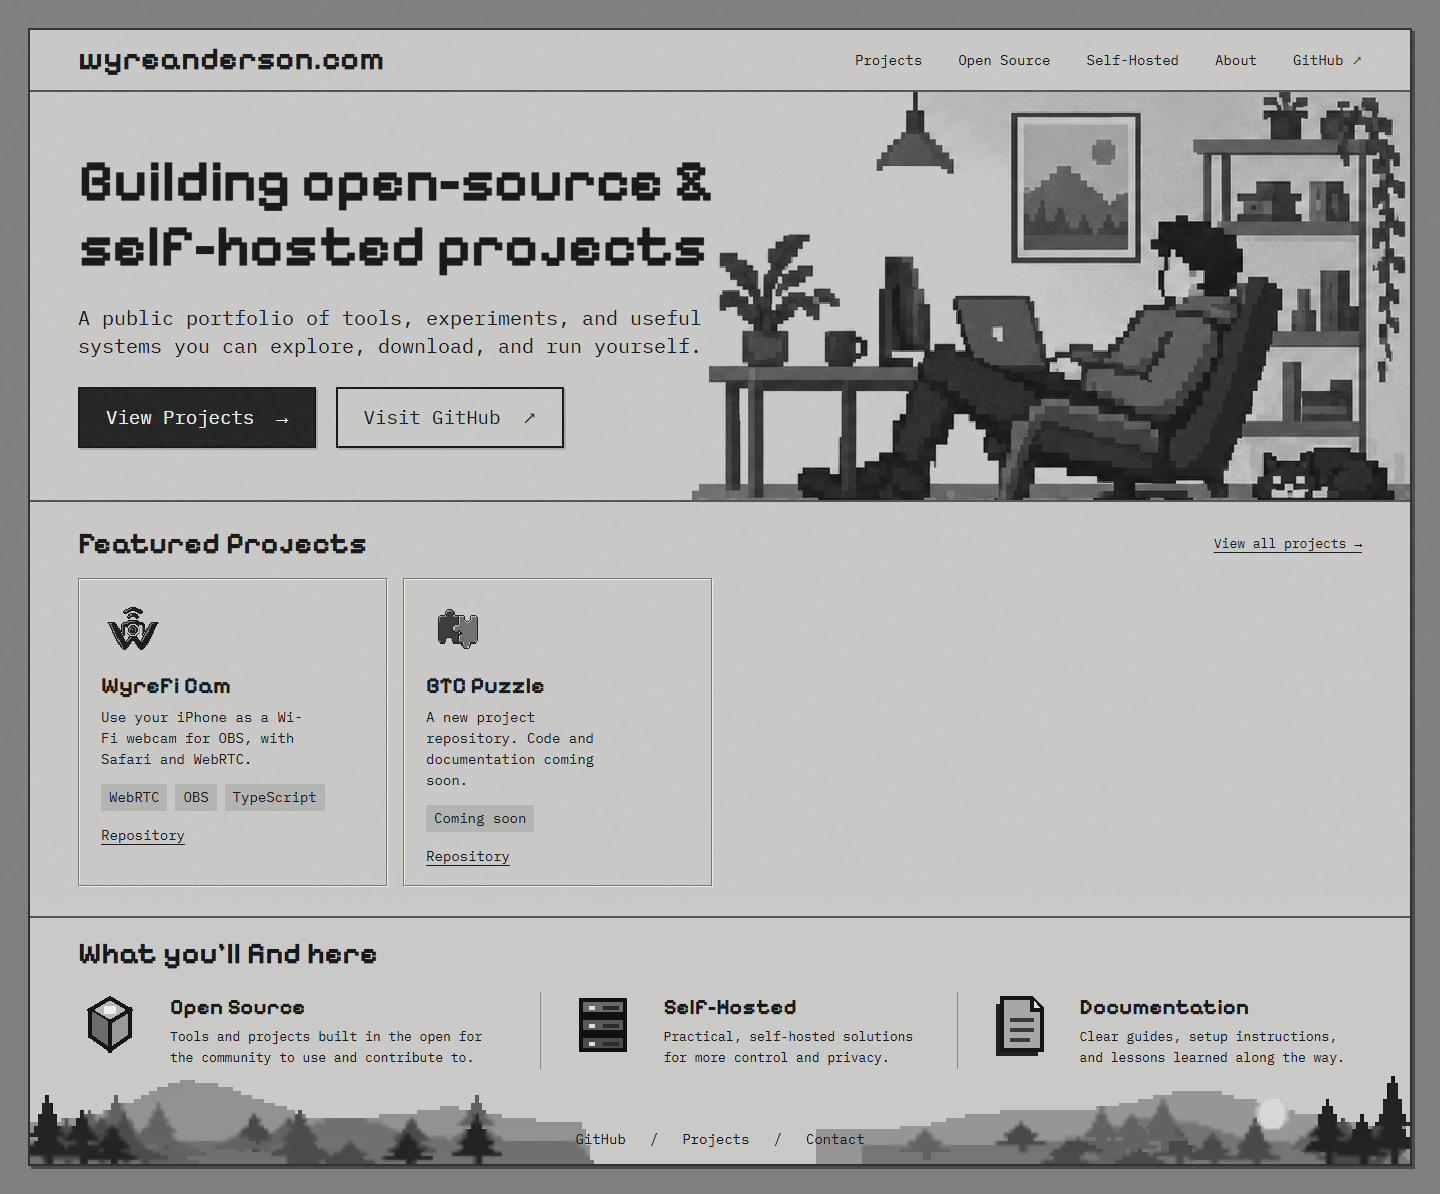
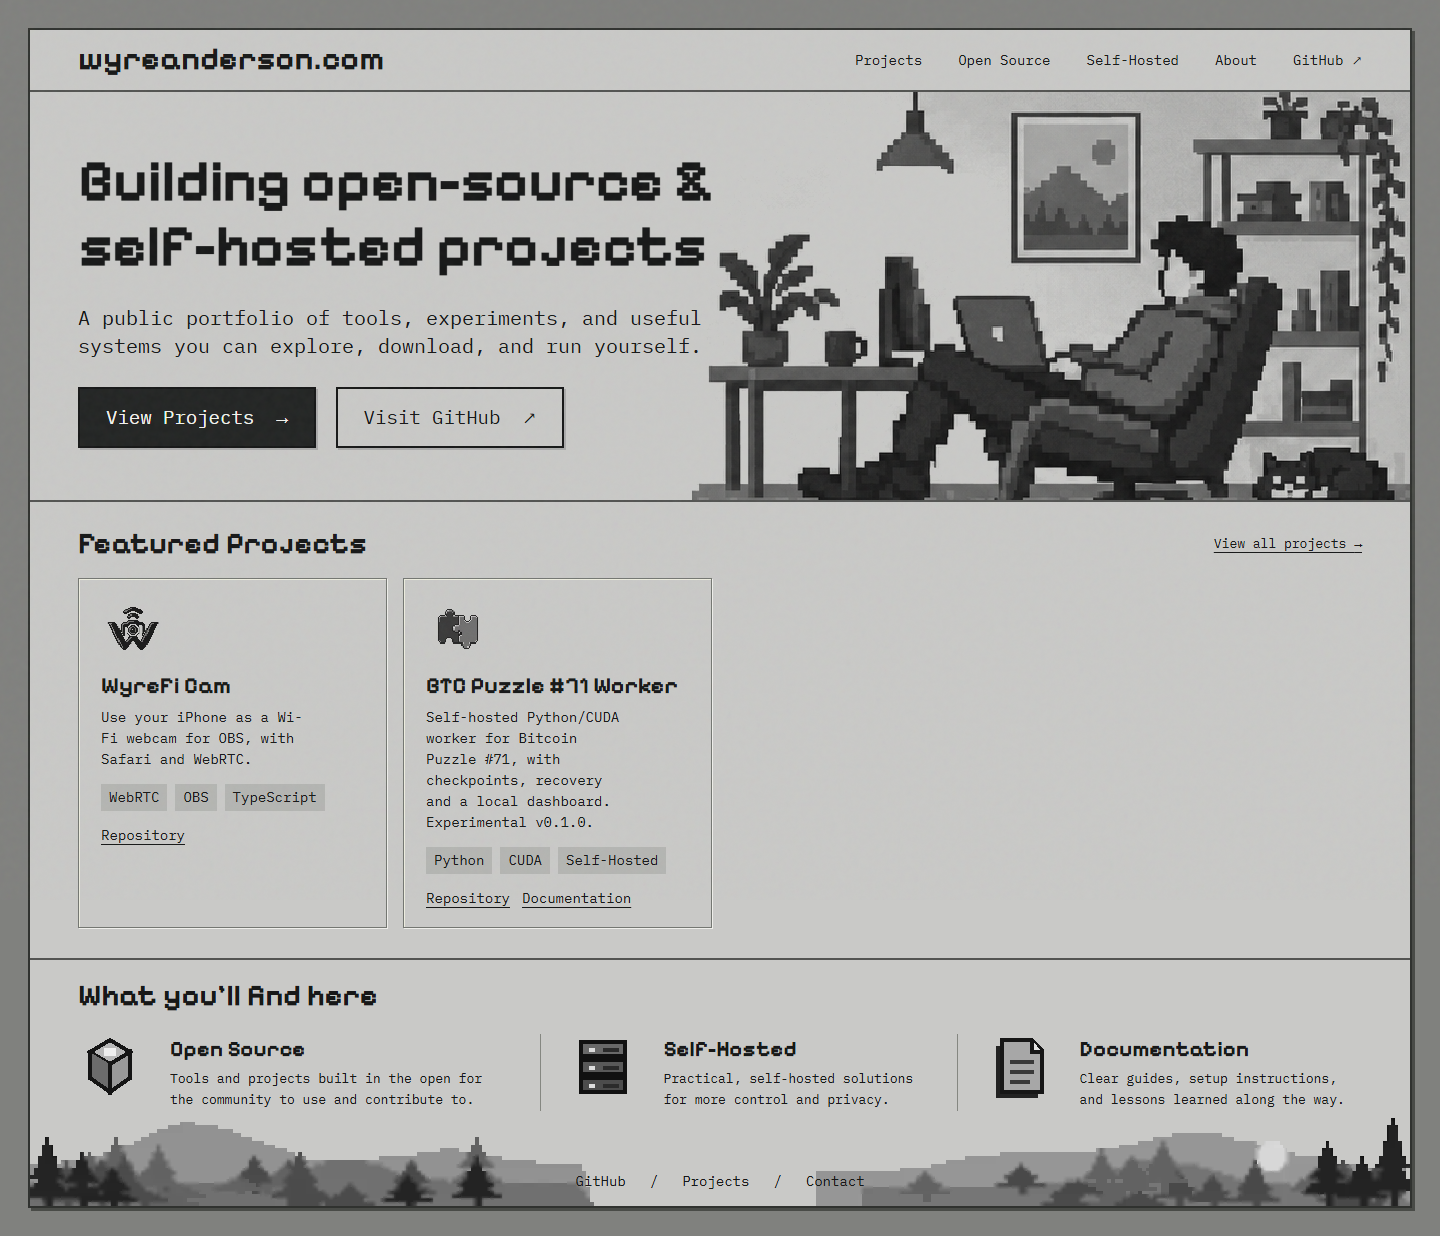
feat: update BTC Puzzle card from published project documentation

diff --git a/tests/site.spec.ts b/tests/site.spec.ts
@@ -53,16 +53,30 @@ for (const [name, width, height] of [
     await expect(page.locator(".project-card")).toHaveCount(2);
     await expect(page.locator(".project-card h3")).toHaveText([
       "WyreFi Cam",
-      "BTC Puzzle",
+      "BTC Puzzle #71 Worker",
     ]);
     await expect(
       page.locator(".project-card").first().locator("a"),
     ).toHaveAttribute("href", "https://github.com/Wyreanderson/WyreFi-Cam");
     const btcCard = page.locator(".project-card").nth(1);
-    await expect(btcCard.locator("p")).toContainText("coming soon");
-    await expect(btcCard.locator("a")).toHaveAttribute(
+    await expect(btcCard.locator("p")).toContainText("Experimental v0.1.0");
+    await expect(btcCard.locator("p")).not.toContainText("coming soon");
+    await expect(btcCard.locator(".tags li")).toHaveText([
+      "Python",
+      "CUDA",
+      "Self-Hosted",
+    ]);
+    await expect(
+      btcCard.getByRole("link", { name: /^Repository/ }),
+    ).toHaveAttribute(
       "href",
       "https://github.com/Wyreanderson/-projeto-BTC-Puzzle",
+    );
+    await expect(
+      btcCard.getByRole("link", { name: /^Documentation/ }),
+    ).toHaveAttribute(
+      "href",
+      "https://github.com/Wyreanderson/-projeto-BTC-Puzzle/blob/main/docs/QUICKSTART.md",
     );
     await expect(btcCard.locator("img")).toHaveAttribute(
       "src",

diff --git a/src/content/projects.ts b/src/content/projects.ts
@@ -34,16 +34,16 @@ export const projects: Project[] = [
   {
     id: "btc-puzzle",
     slug: "btc-puzzle",
-    title: "BTC Puzzle",
+    title: "BTC Puzzle #71 Worker",
     shortDescription:
-      "A new project repository. Code and documentation coming soon.",
-    tags: ["Coming soon"],
-    // The public repository is currently empty and has no license or stack.
-    // Do not infer open-source licensing, hosting, or features from its name.
-    categories: [],
+      "Self-hosted Python/CUDA worker for Bitcoin Puzzle #71, with checkpoints, recovery and a local dashboard. Experimental v0.1.0.",
+    tags: ["Python", "CUDA", "Self-Hosted"],
+    categories: ["open-source", "self-hosted"],
     status: "published",
     featured: true,
     repoUrl: "https://github.com/Wyreanderson/-projeto-BTC-Puzzle",
+    docsUrl:
+      "https://github.com/Wyreanderson/-projeto-BTC-Puzzle/blob/main/docs/QUICKSTART.md",
     coverImage: "/assets/projects/btc-puzzle-pixel.png",
   },
 ];

diff --git a/docs/QA.md b/docs/QA.md
@@ -80,3 +80,11 @@ Arte original gerada com ferramenta integrada image_gen conforme PROJECT_ART.md:
 Executados pnpm lint, pnpm typecheck, pnpm test e pnpm build: aprovados, 9 testes, sem violações axe, erros de consola ou overflow nas quatro larguras. Testes atualizados verificam os dois cartões, os destinos reais e o carregamento da imagem BTC. Capturas desktop/tablet/mobile/360 atualizadas; desktop revisto visualmente. Verificador remoto ajustado para aceitar vários cartões, sem o executar contra produção nesta alteração.
 
 Alteração guardada localmente, sem push/deploy. A versão pública Vercel não recebe o novo cartão até publicação autorizada.
+
+## BTC Puzzle — README atualizado em 22/10/2026
+
+README público lido integralmente: BTC Puzzle #71 Worker, experimental v0.1.0, orquestração Python/cuBitCrack/CUDA para o puzzle público autorizado #71. Documenta self-hosting, checkpoints, recuperação e dashboard local; MIT para o código próprio. Atualizados título, descrição, tags Python/CUDA/Self-Hosted e categorias open-source/self-hosted. Removida indicação Coming soon. Link Documentation confirmado pela API GitHub para docs/QUICKSTART.md. Arte existente mantida. Não foram executados worker, scans, pool, serviços ou código do outro repositório.
+
+pnpm lint, pnpm typecheck, pnpm test e pnpm build passaram; 9 testes, axe sem violações e sem overflow nas quatro larguras. Capturas atualizadas e desktop inspecionado visualmente. Testes conferem nome completo, estado experimental, tecnologias, imagem e links Repository/Documentation. Os registos de 21/10 sobre repositório vazio são históricos e foram superados por esta atualização.
+
+Commit local apenas, sem push/deploy. O site público mantém a versão anterior até publicação autorizada.

diff --git a/AGENTS.md b/AGENTS.md
@@ -27,4 +27,4 @@ This block is written and re-added by `next dev` — verify at `node_modules/nex
 
 Para cada novo projeto no portfólio, seguir docs/PROJECT_ART.md: adaptar a logo existente com identidade preservada, ou gerar arte original quando não houver imagem fornecida. Pixel art monocromática, PNG transparente quadrado, margem uniforme e exibição a 64×64 px. Guardar em public/assets/projects e configurar coverImage. Rever o cartão real antes do commit. Não modificar outros repositórios nem fazer push remoto por este procedimento.
 
-- BTC Puzzle autorizado pelo proprietário em 21/10/2026. Repositório público ainda vazio: cartão Coming soon, sem tecnologias, funcionalidades ou licença presumidas.
+- BTC Puzzle autorizado pelo proprietário em 21/10/2026. Atualizado em 22/10/2026 pelo README real: BTC Puzzle #71 Worker, Python/CUDA, self-hosted, MIT, experimental v0.1.0. Não representar como scanner de carteiras arbitrárias nem prometer cobertura ou recompensa.

diff --git a/docs/PROJECT_ART.md b/docs/PROJECT_ART.md
@@ -32,3 +32,5 @@ Referência original fornecida pelo proprietário: docs/brand-references/wyrefi-
 ## BTC Puzzle
 
 Repositório fornecido pelo proprietário: https://github.com/Wyreanderson/-projeto-BTC-Puzzle. Em 21/10/2026, a API GitHub confirmou repositório público vazio, sem README, stack ou licença. Arte original: duas peças de puzzle encaixadas, em cinzas, sem presumir funcionalidades financeiras ou técnicas. Ferramenta integrada image_gen; prompt final: duas peças de puzzle, silhueta compacta, pixel art monocromática, fundo transparente, margens de 15%, legível a 64×64 px, sem texto, moedas, marcas, brilho ou gradientes. Destino: public/assets/projects/btc-puzzle-pixel.png.
+
+Atualização de 22/10/2026: README agora disponível identifica BTC Puzzle #71 Worker, experimental v0.1.0, Python/CUDA e licença MIT. A arte de puzzle existente foi mantida; o registo anterior descreve apenas a inspeção de 21/10/2026.
